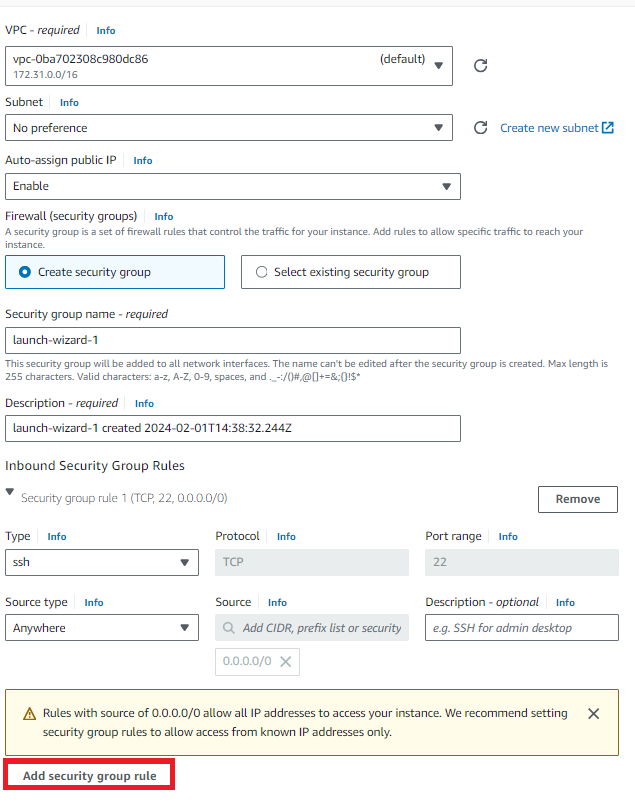
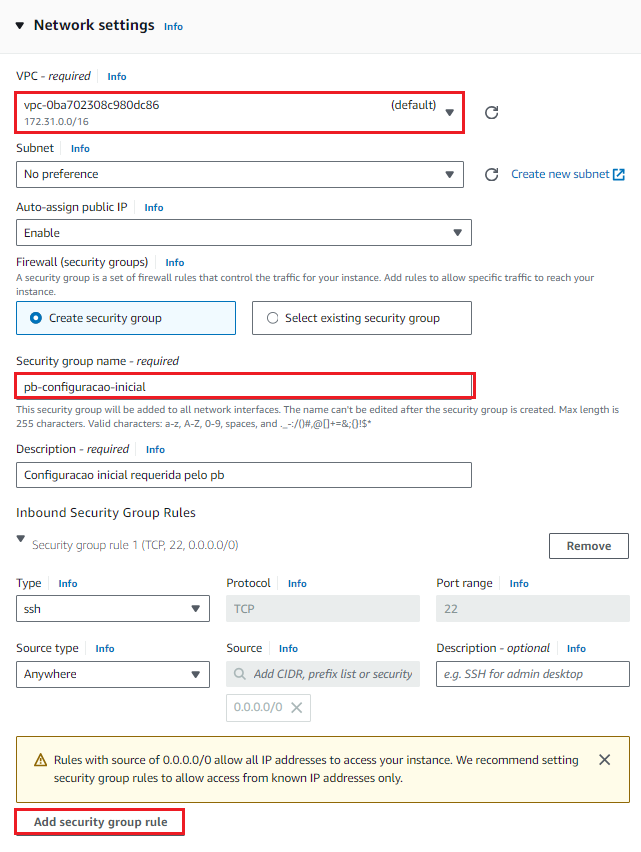
fix: Ajustes finais

diff --git a/README.md b/README.md
@@ -98,6 +98,8 @@ No módulo de EC2 da AWS temos diversas formas de iniciar uma instancia, mas vam
 
 - Ao clicarmos em "Add security group rule" vamos adicionar uma regra de grupo de segurança para cada protocolo solicitado, lembrando que nos protocolos que são TCP/UDP vamos configurar duas regras.
 
+ObS: Atente-se ao grupo de segurança e a VPC pois vamos usar a mesma VPC no EFS e vamos configurar o security group para os mesmos.
+
 6.1. Porta 22 TCP
 <div align="center">
   <img src="/src/step_by_step/ec2_porta22_tcp.png">
@@ -227,6 +229,8 @@ Ainda no módulo de EC2 na lateral esquerda haverá um painel e na seção de "N
 
 
 6. Após a criação do ponto de acesso corretamente no EFS vamos verificar se na seção de "Network" se todas as nossas regras foram colocadas corretamente dentro da EFS através do botão "Manage"
+
+Obs: O mesmo grupo que foi utilizado na criação da EC2
 
 <div align="center">
   <img src="/src/step_by_step/efs_08.png">
